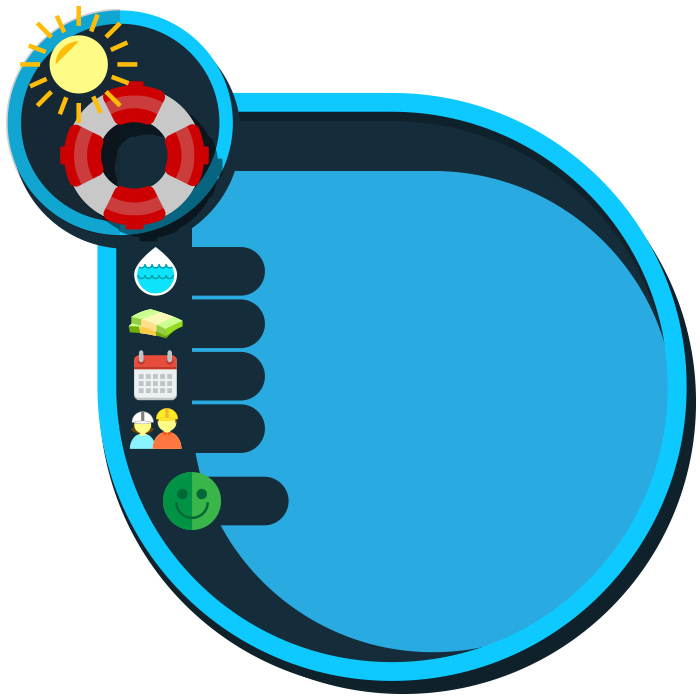
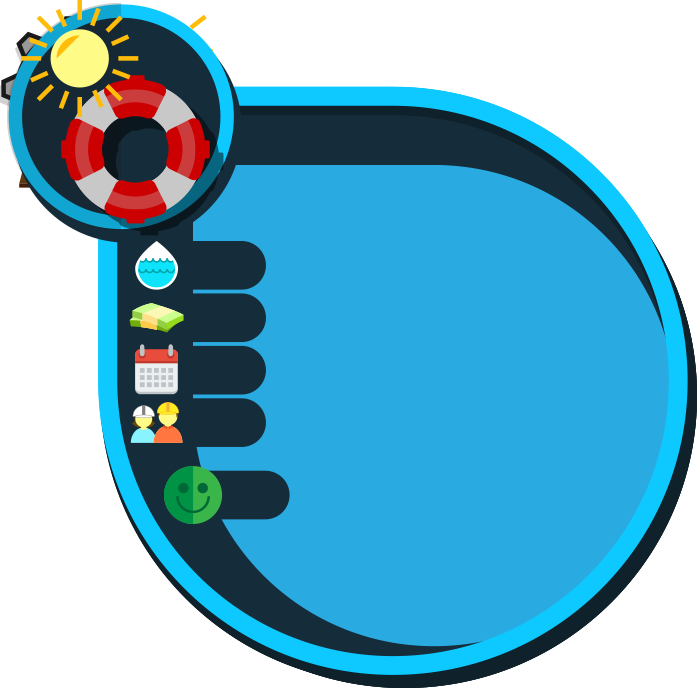
Render project menu

Changed region(s): [[0.0, 0.0, 1.0, 1.0], [0.36, 0.81, 0.39, 0.84]]

diff --git a/Classes/ProjectMenuItem.cpp b/Classes/ProjectMenuItem.cpp
@@ -116,9 +116,9 @@ void ProjectMenuItem::update_projects()
 		int font_size = 20;
 
 		auto name_label = Label::createWithTTF(projs[i]->get_name(), "fonts/Marker Felt.ttf", 35);
-		name_label->setDimensions(rect_size.width * 0.45, rect_size.height * 0.30);
+		name_label->setDimensions(rect_size.width * 0.45, rect_size.height * 0.28);
 		name_label->setAnchorPoint(Vec2::ANCHOR_TOP_LEFT);
-		name_label->setPosition(Vec2(rect_size.width * 0.38, rect_size.height * 0.70));
+		name_label->setPosition(Vec2(rect_size.width * 0.40, rect_size.height * 0.70));
 		name_label->setTextColor(Color4B::WHITE);
 		name_labels.pushBack(name_label);
 		this->addChild(name_label, 1, -999);
@@ -126,47 +126,37 @@ void ProjectMenuItem::update_projects()
 		auto description_label = Label::createWithTTF(projs[i]->get_description(), "fonts/Marker Felt.ttf", 25);
 		description_label->setDimensions(rect_size.width * 0.45, rect_size.height * 0.45);
 		description_label->setAnchorPoint(Vec2::ANCHOR_TOP_LEFT);
-		description_label->setPosition(Vec2(rect_size.width * 0.38, rect_size.height * 0.50));
+		description_label->setPosition(Vec2(rect_size.width * 0.42, rect_size.height * 0.56));
 		description_label->setTextColor(Color4B::WHITE);
 		description_labels.pushBack(description_label);
 		this->addChild(description_label, 1, -999);
 
 		auto cash_label = Label::createWithTTF(StringUtils::format("%d", projs[i]->get_cash_cost()), "fonts/Marker Felt.ttf", font_size);
-		/*cash_label->setDimensions(rect_size.width * 0.10, rect_size.height * 0.15);*/
-		cash_label->setAnchorPoint(Vec2::ANCHOR_TOP_LEFT);
-		cash_label->setPosition(Vec2(rect_size.width * 0.27, rect_size.height * 0.55));
+		cash_label->setPosition(Vec2(rect_size.width * 0.32, rect_size.height * 0.54));
 		cash_label->setTextColor(Color4B::WHITE);
 		cash_labels.pushBack(cash_label);
 		this->addChild(cash_label, 1, -999);
 
 		auto water_label = Label::createWithTTF(StringUtils::format("%d", projs[i]->get_water_cost()), "fonts/Marker Felt.ttf", font_size);
-		/*water_label->setDimensions(rect_size.width * 0.10, rect_size.height * 0.15);*/
-		water_label->setAnchorPoint(Vec2::ANCHOR_TOP_LEFT);
-		water_label->setPosition(Vec2(rect_size.width * 0.31, rect_size.height * 0.63));
+		water_label->setPosition(Vec2(rect_size.width * 0.32, rect_size.height * 0.62));
 		water_label->setTextColor(Color4B::WHITE);
 		water_labels.pushBack(water_label);
 		this->addChild(water_label, 1, -999);
 
 		auto persons_label = Label::createWithTTF(StringUtils::format("%d", projs[i]->get_persons_assigned()), "fonts/Marker Felt.ttf", font_size);
-		/*persons_label->setDimensions(rect_size.width * 0.10, rect_size.height * 0.15);*/
-		persons_label->setAnchorPoint(Vec2::ANCHOR_TOP_LEFT);
-		persons_label->setPosition(Vec2(rect_size.width * 0.31, rect_size.height * 0.40));
+		persons_label->setPosition(Vec2(rect_size.width * 0.32, rect_size.height * 0.40));
 		persons_label->setTextColor(Color4B::WHITE);
 		persons_labels.pushBack(persons_label);
 		this->addChild(persons_label, 1, -999);
 
 		auto time_label = Label::createWithTTF(StringUtils::format("%d / %d", projs[i]->get_time_completed(), projs[i]->get_completion_time()), "fonts/Marker Felt.ttf", font_size);
-		/*time_label->setDimensions(rect_size.width * 0.10, rect_size.height * 0.15);*/
-		time_label->setAnchorPoint(Vec2::ANCHOR_TOP_LEFT);
-		time_label->setPosition(Vec2(rect_size.width * 0.29, rect_size.height * 0.48));
+		time_label->setPosition(Vec2(rect_size.width * 0.32, rect_size.height * 0.47));
 		time_label->setTextColor(Color4B::WHITE);
 		time_labels.pushBack(time_label);
 		this->addChild(time_label, 1, -999);
 
-		auto change_label = Label::createWithTTF(StringUtils::format("%d", projs[i]->get_change()), "fonts/Marker Felt.ttf", font_size);
-		/*change_label->setDimensions(rect_size.width * 0.10, rect_size.height * 0.15);*/
-		change_label->setAnchorPoint(Vec2::ANCHOR_TOP_LEFT);
-		change_label->setPosition(Vec2(rect_size.width * 0.34, rect_size.height * 0.30));
+		auto change_label = Label::createWithTTF(StringUtils::format("%d", projs[i]->get_change()*7), "fonts/Marker Felt.ttf", font_size);
+		change_label->setPosition(Vec2(rect_size.width * 0.35, rect_size.height * 0.29));
 		change_label->setTextColor(Color4B::WHITE);
 		change_labels.pushBack(change_label);
 		this->addChild(change_label, 1, -999);

diff --git a/Classes/AppDelegate.cpp b/Classes/AppDelegate.cpp
@@ -68,7 +68,7 @@ bool AppDelegate::applicationDidFinishLaunching() {
     SimpleAudioEngine::getInstance()->preloadEffect("droplet.wav");
 
     // create a scene. it's an autorelease object
-    auto scene = MainMenu::createScene();
+    auto scene = GameLayer::createScene();
 
     // run
     director->runWithScene(scene);
